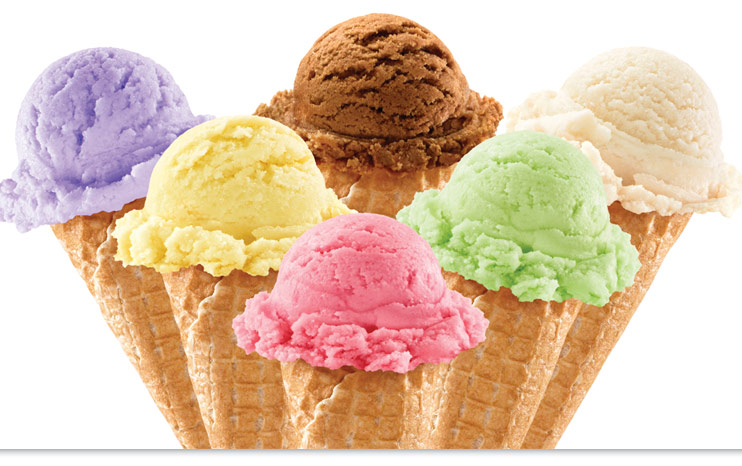
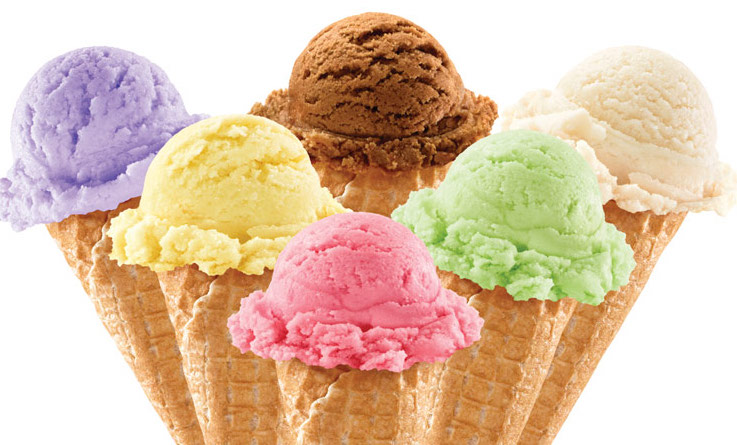
Fixed the footer and edited icecream img

diff --git a/main.css b/main.css
@@ -54,8 +54,7 @@ main img {
 footer {
   color: white;
   background-color: #32ace1;
-  height: 150px;
-  font-family: 'Lilita One', cursive;
+  height: 100px;
 }
 
 footer div ul {
@@ -66,7 +65,7 @@ footer div ul {
 
 footer address {
   float: left;
-  margin: 50px 0 0 0;
+  margin-top: 5px
 }
 footer div div{
   float: right;
@@ -76,6 +75,7 @@ footer div div{
 .f_container {
   width: 50%;
   margin: auto;
+  padding: 10px 0;
 }
 
 h1 {
@@ -92,7 +92,7 @@ table {
   width: 100%;
   max-width: 600px;
   color: #f69232;
-  margin: auto;
+  margin: 0px auto 20px;
 }
 td {
   padding: 10px;

diff --git a/about.html b/about.html
@@ -47,8 +47,8 @@
         Tel: 317-555-0000
       </address>
       <div>
-        <h3>Hours:</h3>
         <ul>
+          <li><strong>Hours:</strong></li>
           <li>Monday - Friday: 8am - 10pm</li>
           <li>Saturday: 8am - 12am</li>
           <li>Sunday: Closed</li>

diff --git a/index.html b/index.html
@@ -84,8 +84,8 @@
         Tel: 317-555-0000
       </address>
       <div>
-        <h3>Hours:</h3>
         <ul>
+          <li><strong>Hours:</strong></li>
           <li>Monday - Friday: 8am - 10pm</li>
           <li>Saturday: 8am - 12am</li>
           <li>Sunday: Closed</li>
